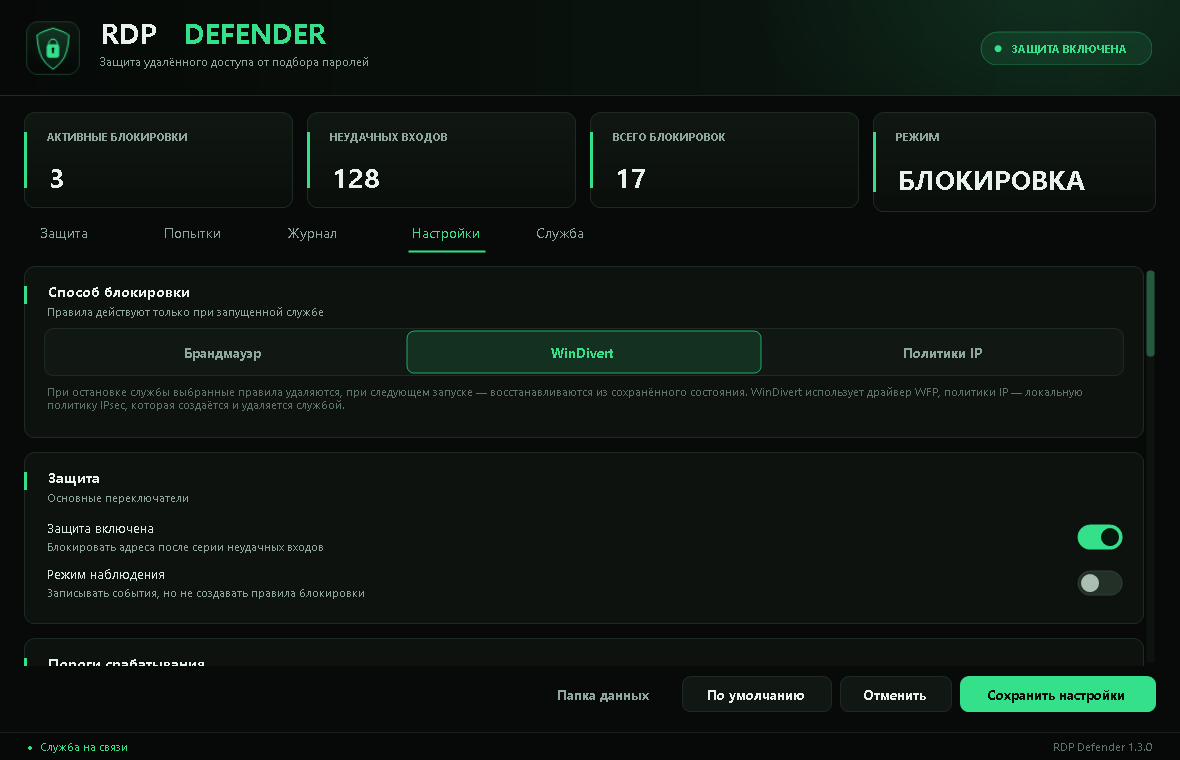
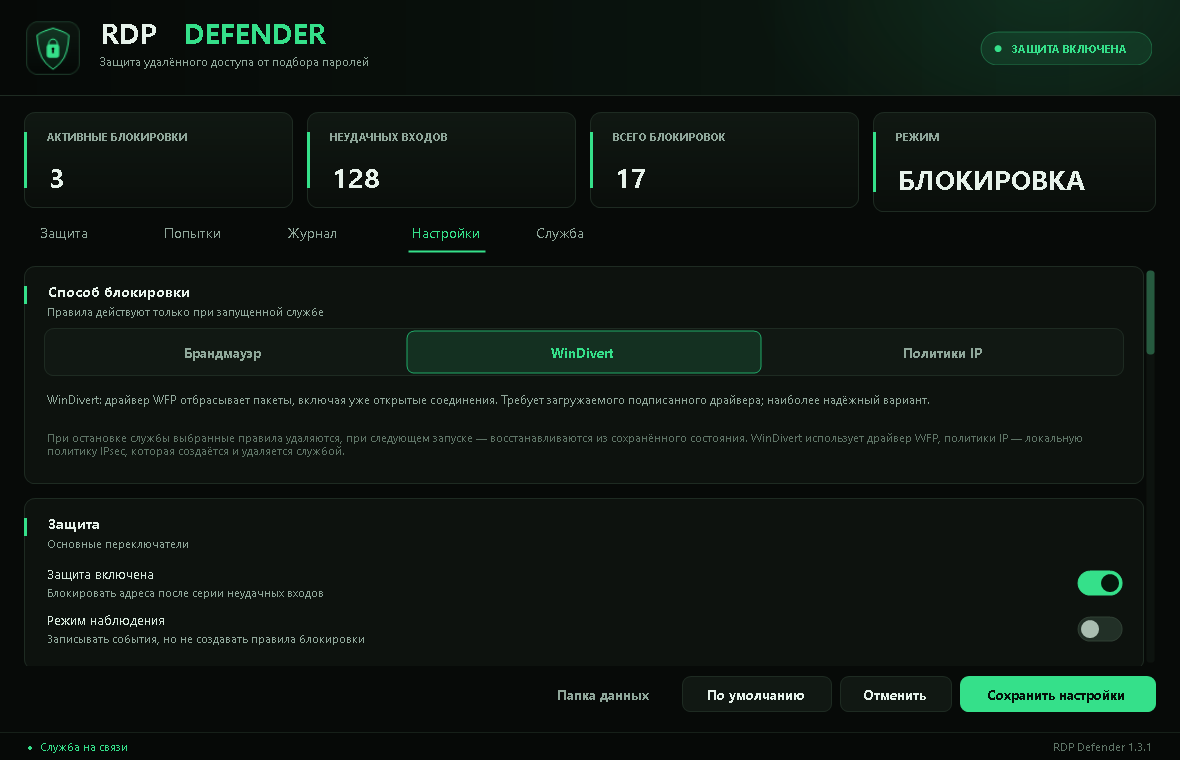
RDP Defender 1.3.1: blocking hints and SignPath signing setup

diff --git a/src/RdpDefender/Ui/MainForm.cs b/src/RdpDefender/Ui/MainForm.cs
@@ -55,6 +55,7 @@ public sealed partial class MainForm : Form
     private DarkScrollPanel _settingsScroll = null!;
     private TableLayoutPanel _settingsStack = null!;
     private SegmentedControl _cfgBlockingMethod = null!;
+    private Label _blockingMethodHint = null!;
     private ToggleSwitch _cfgEnabled = null!;
     private ToggleSwitch _cfgDryRun = null!;
     private ToggleSwitch _cfgBlockAll = null!;
@@ -753,12 +754,41 @@ public sealed partial class MainForm : Form
         };
 
         card.AddFullRow(_cfgBlockingMethod, 48);
+
+        _blockingMethodHint = new Label
+        {
+            AutoSize = false,
+            Dock = DockStyle.Fill,
+            ForeColor = Theme.TextMuted,
+            Font = Theme.Font(8.5f),
+            TextAlign = ContentAlignment.MiddleLeft,
+            Margin = new Padding(0)
+        };
+        card.AddFullRow(_blockingMethodHint, 46);
+        _cfgBlockingMethod.SelectedIndexChanged += (_, _) => UpdateBlockingMethodHint();
+        UpdateBlockingMethodHint();
+
         card.AddHint(
             "При остановке службы выбранные правила удаляются, при следующем запуске — " +
             "восстанавливаются из сохранённого состояния. WinDivert использует драйвер WFP, " +
             "политики IP — локальную политику IPsec, которая создаётся и удаляется службой.", 44);
         card.FitToContent();
         return card;
+    }
+
+    private void UpdateBlockingMethodHint()
+    {
+        if (_blockingMethodHint is null) return;
+
+        _blockingMethodHint.Text = _cfgBlockingMethod.SelectedIndex switch
+        {
+            0 => "Брандмауэр Windows: правила применяются сразу, но не работают при выключенных " +
+                 "профилях брандмауэра. Уже открытые сессии могут сохраниться.",
+            2 => "Политики IP: локальная IPsec-политика применяется с задержкой (опрос до 180 минут) " +
+                 "и не рвёт уже открытые сессии. Для быстрой блокировки менее надёжна.",
+            _ => "WinDivert: драйвер WFP отбрасывает пакеты, включая уже открытые соединения. " +
+                 "Требует загружаемого подписанного драйвера; наиболее надёжный вариант."
+        };
     }
 
     private SectionCard BuildProtectionSection()

diff --git a/src/RdpDefender/Ui/MainForm.Preview.cs b/src/RdpDefender/Ui/MainForm.Preview.cs
@@ -68,7 +68,7 @@ public sealed partial class MainForm
                 Id = 1,
                 TimeUtc = now.AddHours(-5),
                 Level = "INFO",
-                Message = "RDP Defender 1.3.0 запущен. Каталог данных: C:\\ProgramData\\RDP Defender"
+                Message = "RDP Defender 1.3.1 запущен. Каталог данных: C:\\ProgramData\\RDP Defender"
             },
             new()
             {

diff --git a/src/RdpDefender/Infrastructure/GuardPaths.cs b/src/RdpDefender/Infrastructure/GuardPaths.cs
@@ -64,7 +64,7 @@ public sealed class GuardPaths
         get
         {
             var version = Assembly.GetExecutingAssembly().GetName().Version;
-            return version is null ? "1.3.0" : $"{version.Major}.{version.Minor}.{version.Build}";
+            return version is null ? "1.3.1" : $"{version.Major}.{version.Minor}.{version.Build}";
         }
     }
 }

diff --git a/docs/CODE_SIGNING.md b/docs/CODE_SIGNING.md
@@ -1,0 +1,56 @@
+# Политика подписи кода
+
+**Free code signing provided by [SignPath.io](https://about.signpath.io/), certificate by [SignPath Foundation](https://signpath.org/).**
+
+Эта политика относится к релизным сборкам RDP Defender из репозитория
+[3589009-alt/RDPDefender](https://github.com/3589009-alt/RDPDefender).
+
+## Что подписывается
+
+- `RdpDefender.exe` — основной исполняемый файл;
+- `RDP-Defender-Setup-*.exe` — установщик.
+
+Порядок: сначала подписывается приложение, затем из подписанного приложения
+собирается установщик и подписывается отдельно. ZIP и `SHA256SUMS.txt`
+формируются после подписи.
+
+## Кто и как выпускает
+
+- Автор и мейнтейнер: [3589009-alt](https://github.com/3589009-alt).
+- Проверяющий и утверждающий подпись: [3589009-alt](https://github.com/3589009-alt).
+- CI-пользователь SignPath может отправлять запросы на подпись, но не утверждать их.
+- Все участники обязаны использовать MFA в GitHub и SignPath.
+
+Сборка выполняется только в GitHub Actions на `windows-latest` из тега `v*`.
+Все шаги workflow до запроса на подпись выполняются на GitHub-hosted runner.
+Артефакт сначала загружается как GitHub Actions artifact, затем отправляется в
+SignPath; готовый бинарник скачивается обратно и публикуется в релизе.
+
+Workflow: [`.github/workflows/sign-release.yml`](../.github/workflows/sign-release.yml).
+
+## Проверка
+
+```powershell
+signtool verify /pa /v .\RdpDefender.exe
+signtool verify /pa /v .\RDP-Defender-Setup-1.3.1.exe
+```
+
+В свойствах файла издатель будет указан как **SignPath Foundation**.
+
+## Конфиденциальность
+
+SignPath получает артефакт сборки и метаданные GitHub Actions, необходимые для
+проверки происхождения и подписи. Персональные данные пользователей программы
+не передаются. Политика конфиденциальности: <https://about.signpath.io/privacy-policy>.
+
+## Сторонние компоненты
+
+WinDivert распространяется по LGPL; сведения — в
+[`THIRD-PARTY-NOTICES.md`](../THIRD-PARTY-NOTICES.md). Сторонние компоненты
+входят в поставку по своим лицензиям и не переподписываются как код KMV Admin.
+
+## Текущий статус
+
+Заявка в SignPath Foundation готовится. До её одобрения релизы остаются
+неподписанными; после настройки workflow подпись будет обязательной для
+релизных тегов.

diff --git a/docs/SIGNPATH-APPLICATION.md b/docs/SIGNPATH-APPLICATION.md
@@ -1,0 +1,55 @@
+# Заявка в SignPath Foundation
+
+Подавать на <https://signpath.org/apply>. Ниже готовые ответы и чек-лист.
+
+## Данные проекта
+
+- **Project name:** RDP Defender
+- **Repository:** https://github.com/3589009-alt/RDPDefender
+- **License:** MIT (`LICENSE`)
+- **Release:** https://github.com/3589009-alt/RDPDefender/releases/tag/v1.3.1
+- **Website / documentation:** https://kmadmin.ru/
+- **Maintainer:** 3589009-alt
+- **Description:** Windows-служба и GUI для защиты RDP от подбора паролей:
+  мониторинг 4625/261, блокировка через WinDivert, Windows Firewall или IPsec.
+- **Issues / support:** GitHub Issues репозитория.
+- **CI workflow:** `.github/workflows/sign-release.yml`
+- **Build system:** GitHub Actions, `windows-latest`, .NET 8 + NSIS 3.11.
+- **Artifacts:** `RdpDefender.exe`, `RDP-Defender-Setup-*.exe`.
+
+## Соответствие условиям
+
+| Условие SignPath Foundation | Состояние |
+|---|---|
+| OSI-лицензия, без коммерческого dual-license | MIT |
+| Публичный репозиторий | GitHub public |
+| Проект выпущен | v1.3.1 |
+| Проект поддерживается | активные релизы |
+| Документация | README + https://kmadmin.ru/ |
+| Нет вредоносного кода | служба защиты RDP |
+| Нет проприетарных компонентов | WinDivert — LGPL, NSIS — open source |
+| Сборка из CI | GitHub Actions |
+| MFA у участников | включить в GitHub и SignPath |
+
+## После одобрения
+
+1. Установить GitHub App **SignPath** и дать доступ к репозиторию.
+2. Создать проект `RDP Defender` (slug, например `rdp-defender`).
+3. Создать signing policy `release-signing`.
+4. Загрузить две artifact configuration:
+   - `app` — `.signpath/app.xml`;
+   - `installer` — `.signpath/installer.xml`.
+5. Создать CI-пользователя с правом submit, без права approve.
+6. Сохранить в GitHub:
+   - secret `SIGNPATH_API_TOKEN`;
+   - variables `SIGNPATH_ORGANIZATION_ID`, `SIGNPATH_PROJECT_SLUG`,
+     `SIGNPATH_POLICY_SLUG`, `SIGNPATH_APP_CONFIG_SLUG`, `SIGNPATH_SETUP_CONFIG_SLUG`.
+7. Запустить workflow `Build and sign release` на теге `v1.3.1`.
+8. Утвердить запрос на подпись в SignPath.
+9. Проверить `signtool verify /pa /v` и опубликовать подписанные assets.
+
+## Если нужен свой издатель
+
+Вместо SignPath Foundation можно купить OV/EV Code Signing у GlobalSign Россия
+или через Системный софт (Thawte). Тогда издателем будет организация/ИП,
+а подпись — через токен/HSM и `build-sign.ps1`.

diff --git a/README.md b/README.md
@@ -9,8 +9,8 @@
 ## Скачать
 
 - [Последний релиз](https://github.com/3589009-alt/RDPDefender/releases/latest)
-- `RDP-Defender-Setup-1.3.0.exe` — установщик для Windows x64;
-- `RDP-Defender-1.3.0-win-x64.zip` — portable-версия;
+- `RDP-Defender-Setup-1.3.1.exe` — установщик для Windows x64;
+- `RDP-Defender-1.3.1-win-x64.zip` — portable-версия;
 - контрольные суммы — в `SHA256SUMS.txt` релиза.
 
 ![Экран «Защита»](docs/screenshots/blocks.png)
@@ -47,6 +47,17 @@
 - локальный канал управления, доступный только администраторам и SYSTEM;
 - самопроверка логики без изменения системы.
 
+## Подпись кода
+
+Релизные сборки подписываются через SignPath Foundation:
+
+> Free code signing provided by [SignPath.io](https://about.signpath.io/),
+> certificate by [SignPath Foundation](https://signpath.org/).
+
+Политика подписи, роли и порядок проверки — в
+[`docs/CODE_SIGNING.md`](docs/CODE_SIGNING.md). Установщик и приложение
+подписываются отдельно; приложение подписывается до сборки установщика.
+
 ## Требования
 
 - Windows 10 / 11 или Windows Server 2016+ (x64);
@@ -61,7 +72,7 @@
 
 ## Быстрый старт
 
-1. Запустите `RDP-Defender-Setup-1.3.0.exe` (Windows запросит права администратора).
+1. Запустите `RDP-Defender-Setup-1.3.1.exe` (Windows запросит права администратора).
    Установщик скопирует программу в `C:\Program Files\RDP Defender`, зарегистрирует
    и запустит службу, создаст ярлыки в меню «Пуск» и на рабочем столе.
 2. Запустите **RDP Defender** из меню «Пуск».
@@ -86,7 +97,7 @@ RdpDefender.exe --uninstall --purge
 ```
 
 Для установки нужны права администратора (манифест exe запрашивает их автоматически).
-Установщик можно запустить в тихом режиме: `RDP-Defender-Setup-1.3.0.exe /S`.
+Установщик можно запустить в тихом режиме: `RDP-Defender-Setup-1.3.1.exe /S`.
 Удаление — через «Программы и компоненты» или `uninstall.exe`; по умолчанию настройки
 и журналы в `%ProgramData%\RDP Defender` сохраняются.
 

diff --git a/RELEASE_NOTES.md b/RELEASE_NOTES.md
@@ -1,15 +1,17 @@
-# RDP Defender 1.3.0
+# RDP Defender 1.3.1
 
 Защита RDP от подбора паролей для Windows x64.
 
 ## assets
 
-- `RDP-Defender-Setup-1.3.0.exe` — установщик (рекомендуется);
-- `RDP-Defender-1.3.0-win-x64.zip` — portable-версия;
+- `RDP-Defender-Setup-1.3.1.exe` — установщик (рекомендуется);
+- `RDP-Defender-1.3.1-win-x64.zip` — portable-версия;
 - `SHA256SUMS.txt` — контрольные суммы.
 
 ## Основное
 
+- под селектором способа блокировки добавлены пояснения об особенностях
+  брандмауэра, WinDivert и политик IP;
 - встроенный обновлятор с проверкой GitHub Releases и SHA-256;
 - мониторинг неудачных входов (Security 4625);
 - учёт RDP-подключений (событие 261) с блокировкой при превышении порога;
@@ -27,4 +29,5 @@
 - включённый аудит неудачных входов для событий 4625;
 - для WinDivert — загружаемый драйвер (входит в комплект).
 
-Установщик не подписан; SmartScreen может показать предупреждение.
+Установщик пока не подписан; для релизов настраивается бесплатная подпись
+SignPath Foundation. SmartScreen может показать предупреждение.

diff --git a/CHANGELOG.md b/CHANGELOG.md
@@ -1,5 +1,12 @@
 # Changelog
 
+## 1.3.1 — 2026-11-14
+
+- Под селектором способа блокировки добавлены пояснения об особенностях
+  и ограничениях брандмауэра Windows, WinDivert и политик IP.
+- Подготовлена подпись релизов через SignPath Foundation: workflow GitHub Actions,
+  конфигурации артефактов, политика подписи и локальный скрипт `build-sign.ps1`.
+
 ## 1.3.0 — 2026-11-14
 
 - Добавлен встроенный обновлятор: проверка GitHub Releases, скачивание установщика,
